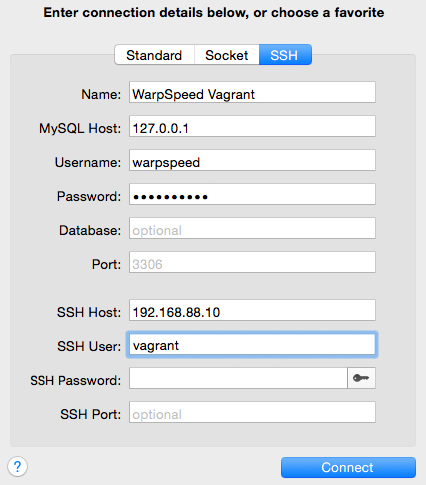
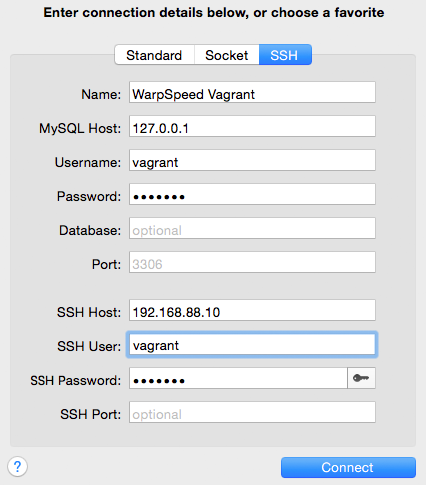
Updated vagrant db connection info.

diff --git a/v1/database-setup-and-access.md b/v1/database-setup-and-access.md
@@ -15,7 +15,7 @@ This section will help you configure and access your databases with WarpSpeed.
 
 ## <a name="db-credentials"></a> Default database credentials.
 
-If you selected a database installer during WarpSpeed provisioning, WarpSpeed will automatically configure your database credentials. The default username will be `warpspeed`. If you created your server through WarpSpeed.io, the database password will be emailed to you. If you used the WarpSpeed manual provisioner, the password is the one you selected during provisioning. Finally, if you used the WarpSpeed Vagrant setup, the password will be `warpspeed`.
+If you selected a database installer during WarpSpeed provisioning, WarpSpeed will automatically configure your database credentials. If you created your server through WarpSpeed.io, the username is `warpspeed` and the database password will be emailed to you. If you used the WarpSpeed Vagrant setup, both the username and password will be `vagrant`.
 
 ## <a name="db-new"></a> Creating a new database.
 
@@ -32,10 +32,10 @@ Since WarpSpeed locks down your server so that only the SSH, HTTP, and HTTPS por
 
 To illustrate this configuration, we will be using SequelPro. It is an outstanding free database client for MySQL databases. If you don't already have it, you can download it [here](http://www.sequelpro.com/).
 
-Here is an example of the configuration for connecting to a WarpSpeed production server over SSH. Note, your MySQL username and password will be `warpspeed` and the database password that you were emailed after server creation. Your SSH username and password will be `warpspeed` and the password should be left blank because it will use your SSH key.
+Here is an example of the configuration for connecting to a WarpSpeed production server over SSH. Note, your MySQL username will be `warpspeed` and the database password will be the one that was emailed to you after server creation. Your SSH username and password will be `warpspeed` and the SSH password should be left blank because it will use your SSH key.
 
 ![](/v1/img/sequel_pro_production.png)
 
-Here is an example of the configuration for connecting to the WarpSpeed Vagrant VM over SSH. Note, your MySQL username and password will be `warpspeed` and `warpspeed` respectively. Your SSH username and password will be `vagrant` and `vagrant`.
+Here is an example of the configuration for connecting to the WarpSpeed Vagrant VM over SSH. Note, your MySQL username and password will be `vagrant` and `vagrant` respectively. Your SSH username and password will also be `vagrant` and `vagrant`.
 
 ![](/v1/img/sequel_pro_vagrant.png)
